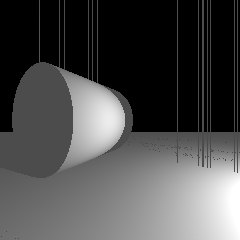
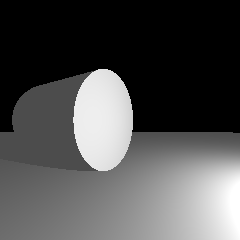
cylinder

diff --git a/Cylinder.cpp b/Cylinder.cpp
@@ -32,36 +32,13 @@ std::vector<RayIntersection> Cylinder::intersect(const Ray& ray) const {
 	Direction d = inverseRay.direction;
 	d(2) = 0;
 
-	RayIntersection hit;
-	hit.material = material;
-
+	
 	double z0 = inverseRay.point(2);
 	double dz = inverseRay.direction(2);
 	double zt = (-1-z0)/dz; /* Front face */
 
-	if (std::abs(dz) > epsilon) {
-		if (zt > 0) {
-			hit.point = inverseRay.point + zt*inverseRay.direction;
-			if (pow(hit.point(2), 2) < 1) { //This part is wrong.
-			hit.normal = Normal(0, 0, 1);
-			hit.point = transform.apply(hit.point);
-			hit.normal = transform.apply(hit.normal);
-			hit.distance = (hit.point - ray.point).norm();
-			result.push_back(hit);
-			}
-		}
-		zt = (1-z0)/dz;  /* Back face. */
-		if (zt > 0) {
-			hit.point = inverseRay.point + zt*inverseRay.direction;
-			if (pow(hit.point(2), 2) < 1) { //This part is wrong.
-			hit.normal = Normal(0, 0, 1);
-			hit.point = transform.apply(hit.point);
-			hit.normal = transform.apply(hit.normal);
-			hit.distance = (hit.point - ray.point).norm();
-			result.push_back(hit);
-			}
-		}
-	}
+	RayIntersection hit;
+	hit.material = material;
 
 	double a = d.dot(d);
 	double b = 2 * d.dot(p);
@@ -69,6 +46,7 @@ std::vector<RayIntersection> Cylinder::intersect(const Ray& ray) const {
 
 	double b2_4ac = b*b - 4*a*c;
 	double t;
+
 	switch (sign(b2_4ac)) {
 	case -1:
 		// No intersections
@@ -79,7 +57,7 @@ std::vector<RayIntersection> Cylinder::intersect(const Ray& ray) const {
 		if (t > 0) {
 			// Intersection is in front of the ray's start point
 			hit.point = Point(inverseRay.point + t*inverseRay.direction);
-			if (hit.point(2) <= 1.0 and hit.point(2) >= -1) {
+			if (hit.point(2) <= 1 and hit.point(2) >= -1) {
 				hit.point = transform.apply(hit.point);
 				hit.normal = transform.apply(Normal(inverseRay.point + t*inverseRay.direction));
 				if (hit.normal.dot(ray.direction) > 0) {
@@ -96,7 +74,7 @@ std::vector<RayIntersection> Cylinder::intersect(const Ray& ray) const {
 		if (t > 0) {
 			// Intersection is in front of the ray's start point
 			hit.point = Point(inverseRay.point + t * inverseRay.direction);
-			if (hit.point(2) <= 1.0 and hit.point(2) >= -1) {
+			if (hit.point(2) <= 1 and hit.point(2) >= -1) {
 				hit.point = transform.apply(hit.point);
 				hit.normal = transform.apply(Normal(inverseRay.point + t*inverseRay.direction));
 				if (hit.normal.dot(ray.direction) > 0) {
@@ -128,6 +106,32 @@ std::vector<RayIntersection> Cylinder::intersect(const Ray& ray) const {
 		exit(-1);
 		break;
 	}
+	if (std::abs(dz) > epsilon) {
+		if (zt > 0) {
+			hit.point = inverseRay.point + zt*inverseRay.direction;
+			// if (std::abs(hit.point(0)) <= 1 && std::abs(hit.point(1)) <= 1) {
+			if (pow(hit.point(0), 2) + pow(hit.point(1), 2) <= 1) { 
+			hit.normal = Normal(0, 0, -1);
+			hit.point = transform.apply(hit.point);
+			hit.normal = transform.apply(hit.normal);
+			hit.distance = (hit.point - ray.point).norm();
+			result.push_back(hit);
+			}
+		}
+		zt = (1-z0)/dz;  /* Back face. */
+		if (zt > 0) {
+			hit.point = inverseRay.point + zt*inverseRay.direction;
+			if (pow(hit.point(0), 2) + pow(hit.point(1), 2) <= 1) { 
+			hit.normal = Normal(0, 0, 1);
+			hit.point = transform.apply(hit.point);
+			hit.normal = transform.apply(hit.normal);
+			hit.distance = (hit.point - ray.point).norm();
+			result.push_back(hit);
+			}
+		}
+	}
+
+
 
 
 
